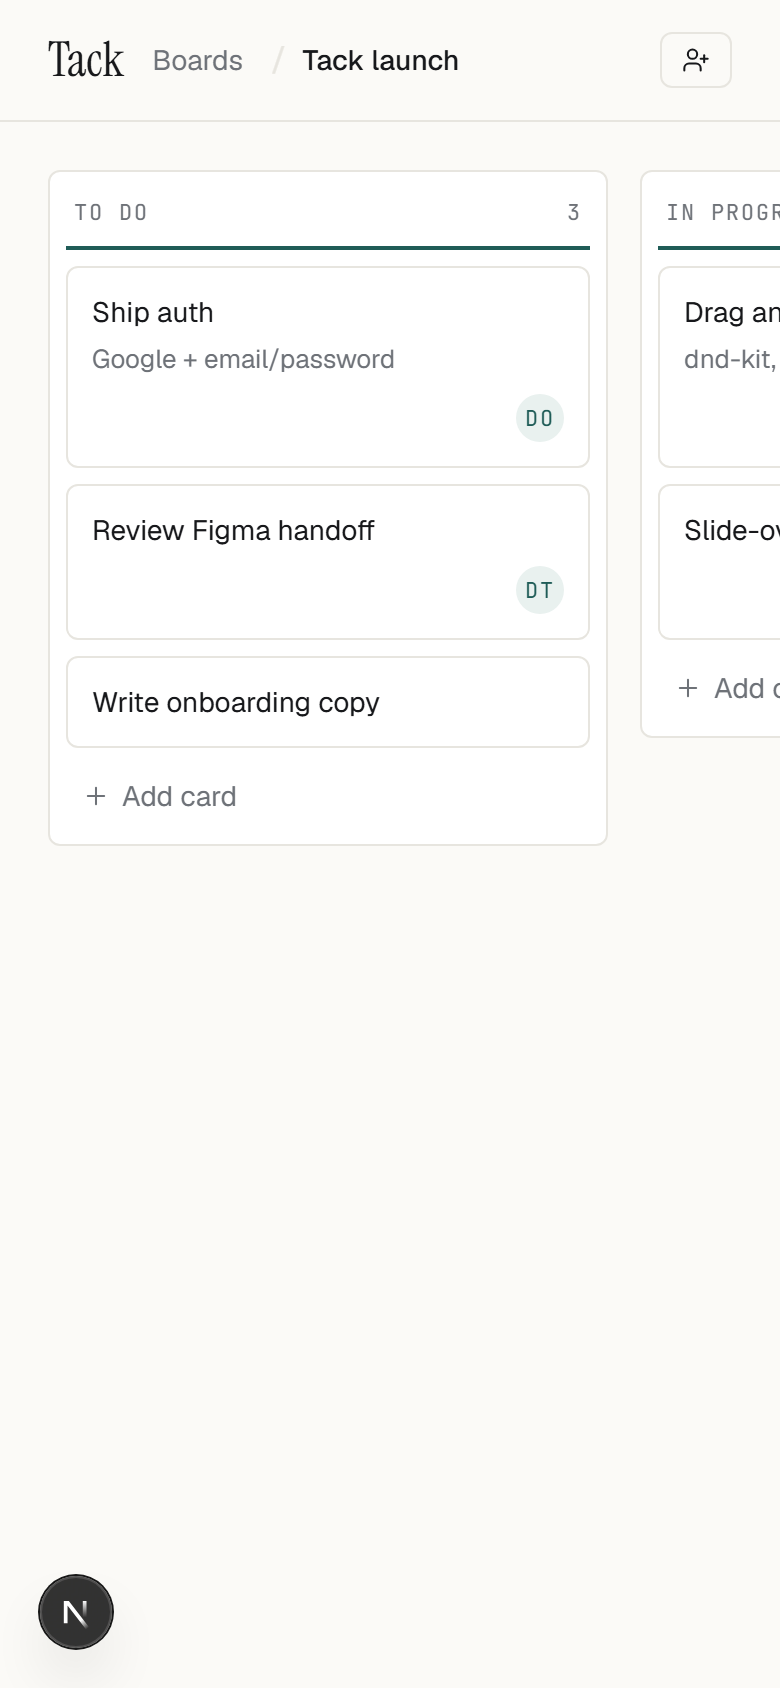
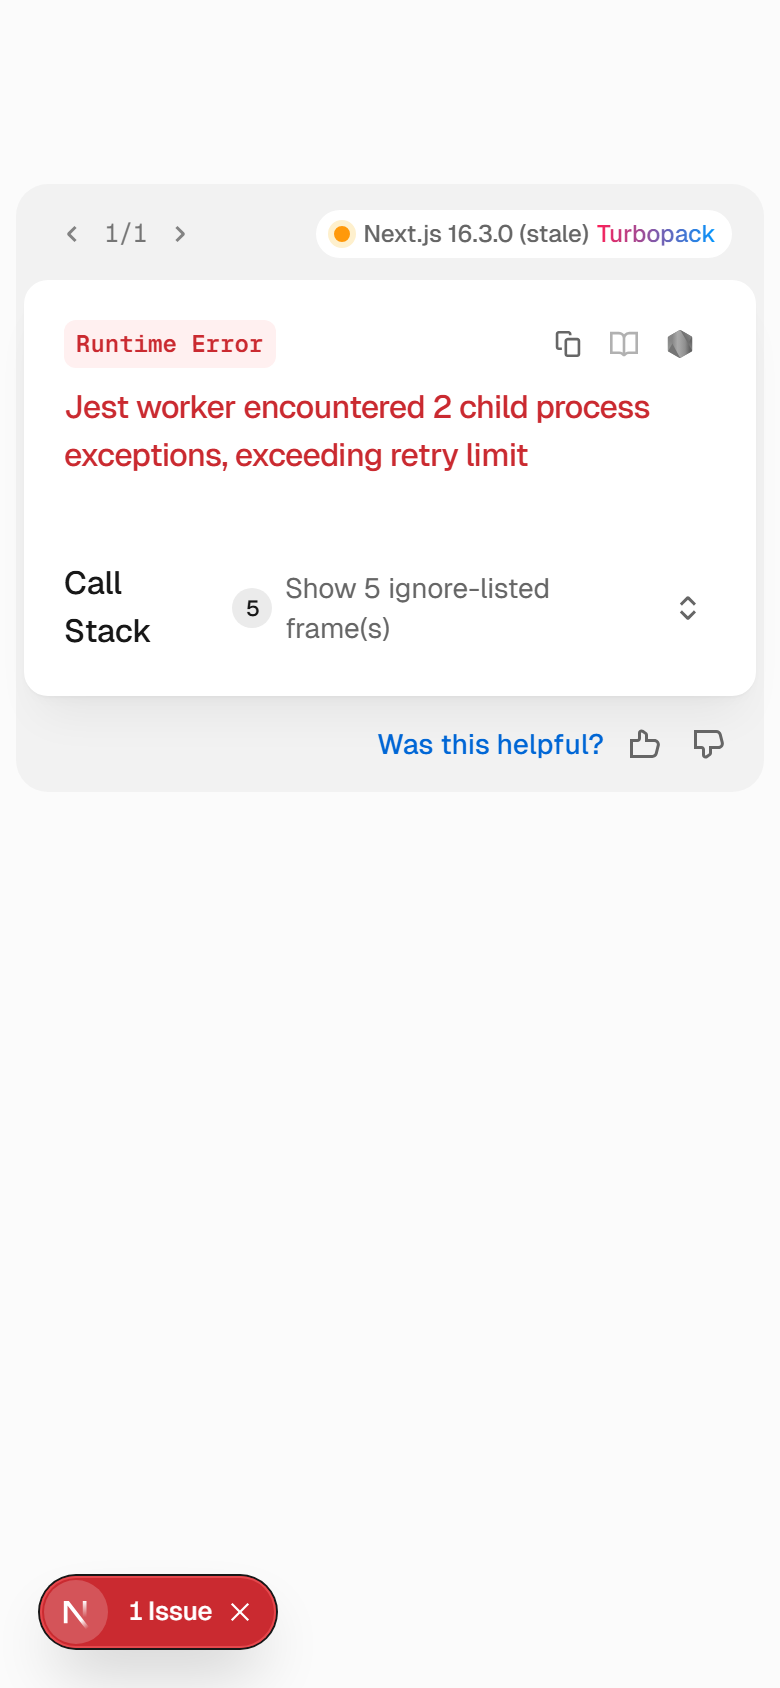
chore: clean dead code
- Fix the real dead code: --card-h CSS var referenced in card-item.tsx
  was never set anywhere, always silently falling back to a hardcoded
  64px. Replaced with an invisible same-content clone inside the dashed
  box, so the drag placeholder's height matches the actual card exactly
  (title + description + assignee) instead of guessing a constant.
  Verified with a real drag simulation, screenshot mid-drag both before
  and after — first attempt hid the dashed border along with the text
  (wrong), fixed to hide only the inner content (right).
- Remove docs/screenshots/landing-desktop.png and landing-mobile.png —
  generated by screenshot.mjs but not referenced by the trimmed README
- Trim screenshot.mjs to only capture what README.md actually embeds
- Fix scripts/screenshot.mjs and responsive-audit.mjs constructing the
  old bare /boards/{id} URL — worked via the redirect, but pointless
  extra hop; now go straight to the canonical /boards/{id}/{slug}
- Confirmed no other dead code: every component, exported action,
  utils.ts export, and npm dependency is actually referenced

diff --git a/src/components/board/card-item.tsx b/src/components/board/card-item.tsx
@@ -24,12 +24,28 @@ export function CardItem({
   };
 
   if (isDragging) {
+    // The dashed box itself must stay visible (that's the placeholder) —
+    // only its content is hidden, as a same-shaped, invisible copy of the
+    // real card. That gives the box the dragged card's exact height without
+    // hardcoding a guess or measuring anything in JS.
     return (
       <div
         ref={setNodeRef}
         style={style}
-        className="h-[var(--card-h,64px)] rounded-md border border-dashed border-pine"
-      />
+        className="flex w-full flex-col items-start rounded-md border border-dashed border-pine p-3 text-left"
+      >
+        <div className="invisible">
+          <p className="text-sm">{card.title}</p>
+          {card.description && (
+            <p className="mt-1 line-clamp-1 text-[13px]">{card.description}</p>
+          )}
+          {assignee && (
+            <div className="mt-2 flex w-full justify-end">
+              <Avatar name={assignee.name ?? assignee.email} />
+            </div>
+          )}
+        </div>
+      </div>
     );
   }
 
